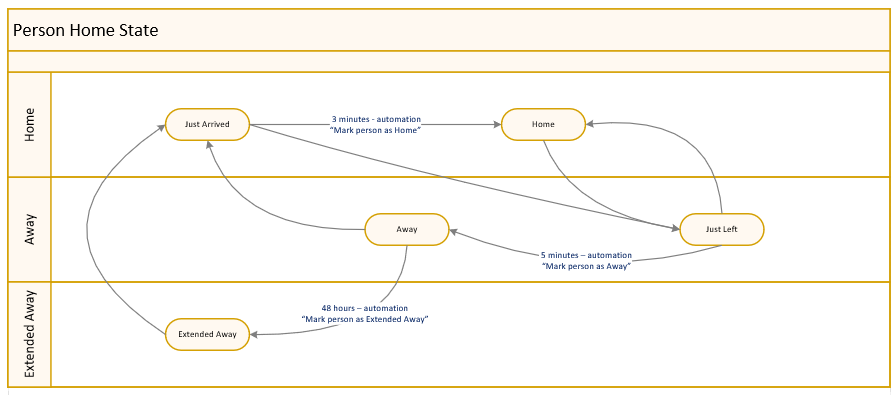
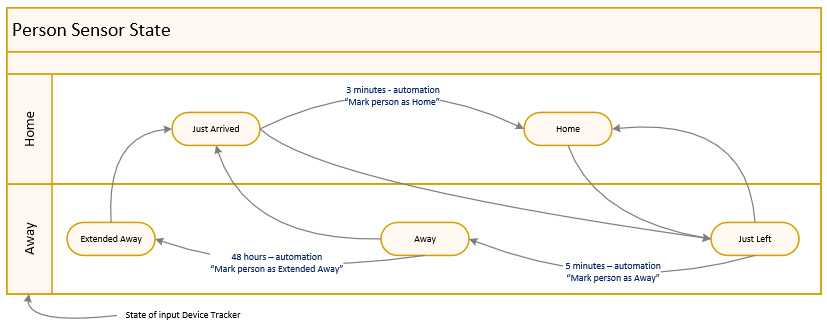
Document it

diff --git a/docs/PersonDetection.md b/docs/PersonDetection.md
@@ -1,56 +1,144 @@
-# **Person Detection Details**
+# Person Detection Details
 
-## **Presence Detection not so Binary**
-When a person is detected as moving between Home and Away, instead of going straight to Home or Away, it will temporarily change the person's status to Just Arrived or Just Left so that automations can be triggered appropriately.
+## Table of Contents
+
+* [Objectives](#objectives)
+  * [Combine the status of multiple device trackers](#combine-the-status-of-multiple-device-trackers)
+  * [Make presence detection not so binary](#making-presence-detection-not-so-binary)
+  * [Reverse geocode the location and make calculations](#reverse-geocode-the-location-and-make-calculations)
+* [Components](#components)
+  * [File automation_folder/presence-detection.yaml](#file-automation_folderpresence-detectionyaml)
+    * [Device tracker requirements (input)](#device-tracker-requirements-input)
+  * [File python_scripts/person_sensor_update.py](#file-python_scriptsperson_sensor_updatepy)
+    * [Person sensor example (output)](#person-sensor-example-output)
+  * [Folder custom_components/person_sensor_update](#folder-custom_componentsperson_sensor_update)
+    * [Open Street Map Geocoding](#open-street-map-geocoding)
+      * [Open Street Map Geocoding Configuration](#open-street-map-geocoding-configuration)
+    * [Google Maps Geocoding](#google-maps-geocoding)
+      * [Google Maps Geocoding Configuration](#google-maps-geocoding-configuration)
+* [Back to README](/README.md#home-assistant-configuration)
+## Objectives
+### **Combine the status of device trackers**
+This custom integration will look at all device trackers for a particular person and combine them into a single person sensor, `sensor.<name>_status`. Device tracker state changes are monitored rather than averaging the states or calculating a probability.
+### **Make presence detection not so binary**
+When a person is detected as moving between `Home` and `Away`, instead of going straight to `Home` or `Away`, it will temporarily change the person's status to `Just Arrived` or `Just Left` so that automations can be triggered or conditions applied appropriately.
 
 ![Person State Diagram](images/PersonHomeState.png)
 
 *Inspired by <https://philhawthorne.com/making-home-assistants-presence-detection-not-so-binary/>* 
 
-### **HOME-ASSISTANT/python_scripts/person_sensor_update.py** 
-This is a script that is called by automation "Person Sensor Update" following a state change of a device tracker such as a phone, watch, or car.  It creates/updates a Home Assistant sensor named `sensor.<personName>_status`.
-	
-The sensor will be updated with a state such as "Just Arrived", "Home", "Just Left", "Away", or "Extended Away".  In addition, the attributes from the triggered device tracker will be copied to the sensor.  Attributes `entity_id` (the triggering entity ID), `reported_state` (the state reported by the device tracker), `icon` (for the current zone), and `friendly_name` (the status of the person) will be updated.
-	
-Note that the person sensor state is triggered by state changes such as a device changing zones, so a phone left at home does not get a vote for "home".  The assumption is that if the device is moving, then the person has it.  An effort is also made to show more respect to devices with a higher GPS accuracy.
+### **Reverse geocode the location and make calculations**
+The optional custom integration supplies a service to reverse geocode the location (making it human readable) using either `Open Street Map` or `Google Maps` and calculate the distance from home (miles and minutes) using `WazeRouteCalculator`.  
 
-### **Person sensor example**
-```
-	Entity	            State	Attributes
-	sensor.rod_status 	Home	source_type: gps 
-			                    battery_level: 97 
-			                    latitude: xx.136566162109375 
-			                    longitude: -xxx.60774422200406 
-			                    gps_accuracy: 65 
-			                    altitude: xxxx.1041374206543 
-			                    vertical_accuracy: 10 
-			                    friendly_name: Rod (i.e. Rod's iPhone) is Home 
-			                    account_name: rod 
-			                    entity_id: device_tracker.crab_apple 
-			                    reported_state: Home 
-			                    person_name: Rod 
-			                    update_time: 2020-12-11 17:08:52.267362 
-			                    icon: mdi:home
-```
+## Components
 
-### **HOME-ASSISTANT/automation_folder/presence-detection.yaml**
-This automation file contains the automations that call the person_sensor_update.py script.
+### **File automation_folder/presence-detection.yaml**
+This automation file contains the example automations that call the person_sensor_update.py script.  These automations determine which device trackers will be watched for events that will trigger processing. 
 
-Note that `Person Sensor Update for router home` and `Person Sensor Update for router not_home` are not currently used because it drives the router crazy to be probed all the time.  The intention here is to give a five minute delay before declaring the device not home, so that temporary WIFI dropoffs do not cause inappropriate actions.
+Automations `Mark person as Home`, `Mark person as Away`, and `Mark person as Extended Away` each need to have the complete list of Person Trackers.  (A future enhancement may find a way to maintain the list automatically.) 
 
-### **Device Trackers**
+Automation `Person Sensor Update` contains a list of device tracker entities to be monitored. Automation `Device Tracker Updated` looks at all `state_changed` events to find the ones that belong to device trackers. One automation or the other (or both) will be needed to select the input to the process.
+
+Note that `Person Sensor Update for router home` and `Person Sensor Update for router not_home` are not currently used by me because it drives my router crazy to be probed all the time.  The intention here was to give a five minute delay before declaring the device not home, so that temporary WIFI dropoffs do not cause inappropriate actions.
+
+#### **Device tracker requirements (input)**
 Each device tracker that is processed needs to have the identity of the person that is being tracked. This is specified in either a `person_name` or `account_name` attribute of the device tracker. This could be done in Configuration Customizations.
 
 ![Customizations Example](images/CustomizationsExample.png)
 
 In the case of the [Apple iCloud integration](https://www.home-assistant.io/integrations/icloud/), the account_name can be specified in its configuration and this gets passed thru to the device trackers:
-```
-# iCloud presence
+```yaml
+# Example configuration.yaml entry for iCloud presence
+
 - platform: icloud
   username: roderickhpayne@gmail.com
   password: !secret icloud_rod
   account_name: Rod
 ```
 
+### **File python_scripts/person_sensor_update.py** 
+This is a script that is called by automation `Person Sensor Update` following a state change of a device tracker such as a phone, watch, or car.  It creates/updates a Home Assistant sensor named `sensor.<personName>_status`.
+	
+The sensor will be updated with a state such as `Just Arrived`, `Home`, `Just Left`, `Away`, or `Extended Away`.  In addition, selected attributes from the triggered device tracker will be copied to the sensor.  Attributes `entity_id` (the triggering entity ID), `reported_state` (the state reported by the device tracker), `icon` (for the current zone), and `friendly_name` (the status of the person) will be updated.
+	
+Note that the person sensor state is triggered by state changes such as a device changing zones, so a phone left at home does not get a vote for "home".  The assumption is that if the device is moving, then the person has it.  An effort is also made to show more respect to devices with a higher GPS accuracy.
 
-### [Back to README](/README.md)
+#### **Person sensor example (output)**
+
+| Entity            | State | Attribute Name | Value         |
+| :---------------- | :---: | :------------- | :------------ |
+| sensor.rod_status | Home	| source_type:   | gps | 
+|                   |		| battery_level: | 97 |
+|                   |       | latitude:      | xx.136566162109375 | 
+| | | longitude: | -xxx.60774422200406 |
+| | | gps_accuracy: | 65 |
+| | | altitude: | xxxx.1041374206543 |
+| | | vertical_accuracy: | 10 |
+| | | friendly_name: | Rod (Rod's iPhone) is Home |
+| | | account_name: | rod |
+| | | entity_id: | device_tracker.crab_apple |
+| | | reported_state: | Home |
+| | | person_name: | Rod |
+| | | update_time: | 2020-12-11 17:08:52.267362 |
+| | | icon: | mdi:home |
+
+
+### **Folder custom_components/person_sensor_update**
+For meaningful results, the device trackers will need to include `latitude` and `longitude` attributes, as in Mobile App, iCloud, and iCloud3 device trackers.  These location features will be skipped for updates triggered by device trackers that do not know the location coordinates.  
+
+By default, the custom integration will add the following attribute names to the sensor.
+
+| Attribute Name            | Value |
+| :------------------------ | :---- |
+| source_type: | gps          | 
+| meters_from_home: | 71862.3 | 
+| miles_from_home: | 44.7     |
+| direction: | stationary     | 
+| driving_miles: | 50.6       | 
+| driving_minutes: | 46.8     | 
+
+If the custom integration is not installed, script `person_sensor_update.py` will gracefully go on without it. 
+
+*Attribution:* "Data provided by Waze App. Learn more at [Waze.com](https://www.waze.com)"
+
+#### **Open Street Map Geocoding**
+The Open Street Map Geocoding feature adds the following attribute names to the sensor.
+
+| Attribute Name            | Value |
+| :------------------------ | :---- |
+| OSM_location: | 1313 Mockingbird Lane Hollywood Los Angeles California 90038 United States | 
+
+Open Street Map (Nominatim) has [a usage policy](https://operations.osmfoundation.org/policies/nominatim/) that limits the frequency of calls. The custom integration attempts to limit calls to less than once per second, possibly skipping an update until the next one comes along.  To meet the requirement to be able to switch off the service, the state of `person_sensor_update.person_sensor_update_api` can be changed to `Off`. This can be done by calling service `person_sensor_update.geocode_api_off` and then resumed later by calling service `person_sensor_update.geocode_api_on`.  The number of calls is also reduced by skipping updates while the person sensor state is `Home` or if the location has changed by less than 10 meters.  (It will update while the state is `Just Arrived`, so it will reflect the home location while home.)
+
+If you find problems with the OSM information, feel free to sign up at https://www.openstreetmap.org/ and edit the map. 
+
+*Attribution:* "Data © OpenStreetMap contributors, ODbL 1.0. https://osm.org/copyright"
+
+#### **Open Street Map Geocoding Configuration**
+To activate the custom integration with the Open Street Map geocoding feature, add a contact email address to `<config>/configuration.yaml`.
+```yaml
+# Example configuration.yaml entry
+
+person_sensor_update:
+    osm_api_key: !secret gmail_address
+```
+
+#### **Google Maps Geocoding**
+The Google Maps Geocoding feature adds the following attribute names to the sensor.
+
+| Attribute Name            | Value |
+| :------------------------ | :---- |
+| google_location: | 1313 Mockingbird Ln,Los Angeles, CA 90038, USA |
+
+*Attribution:* ![powered by Google](images/powered_by_google_on_non_white.png)
+
+#### **Google Maps Geocoding Configuration**
+To activate the custom integration with the Google Maps Geocoding feature, add a Google API Key to `<config>/configuration.yaml`. A Google API Key can be obtained from the [Google Maps Platform](https://cloud.google.com/maps-platform#get-started). Unfortunately, obtaining a Key requires that billing be set up. Their free tier is generous for our purposes, but if it gives you the heebie-jeebies to give Google a credit card, stick with Open Street Map.
+```yaml
+# Example configuration.yaml entry
+
+person_sensor_update:
+    google_api_key: !secret google_api_key
+```
+
+### [Back to README](/README.md#home-assistant-configuration)

diff --git a/README.md b/README.md
@@ -3,13 +3,26 @@
 ## **Set State**
 Python Script to set the state or other attributes for the specified entity.
 
-Excellent documentation available in (https://github.com/xannor/hass_py_set_state) readme.
+Excellent documentation and HACS installation available from (https://github.com/xannor/hass_py_set_state) readme.
 
+### **Manual Installation Hints**
+1. Create `<config>/python_scripts` folder if you haven't already.
 
-## **Presence Detection not so Binary**
-When a person is detected as moving between Home and Away, instead of going straight to Home or Away, it will temporarily change the person's status to Just Arrived or Just Left so that automations can be triggered appropriately.
+2. Copy `set_state.py` into the `<config>/python_scripts` folder.
+
+3. Add `python_script:` to `<config>/configuration.yaml` if you haven't already.
+
+4. Restart Home Assistant.
+
+## **Person Sensor**
+This custom integration will look at all device trackers for a particular person and combine them into a single person sensor, `sensor.<name>_status`. Device tracker state changes are monitored rather than averaging the states or calculating a probability.
+
+Optionally, when the person sensor changes it can be reverse geocoded using Open Street Maps and the distance from home (miles and minutes) calculated with `WazeRouteCalculator`.
+
+When a person is detected as moving between `Home` and `Away`, instead of going straight to `Home` or `Away`, this will temporarily change the person's status to `Just Arrived` or `Just Left` so that automations can be triggered appropriately.
 
 ![Person State Diagram](docs/images/PersonHomeState.png)
 
-[Person Detection Details](docs/PersonDetection.md) *Inspired by <https://philhawthorne.com/making-home-assistants-presence-detection-not-so-binary/>* 
+*Inspired by <https://philhawthorne.com/making-home-assistants-presence-detection-not-so-binary/>* 
 
+### [Go to Person Detection Details](docs/PersonDetection.md#table-of-contents)
